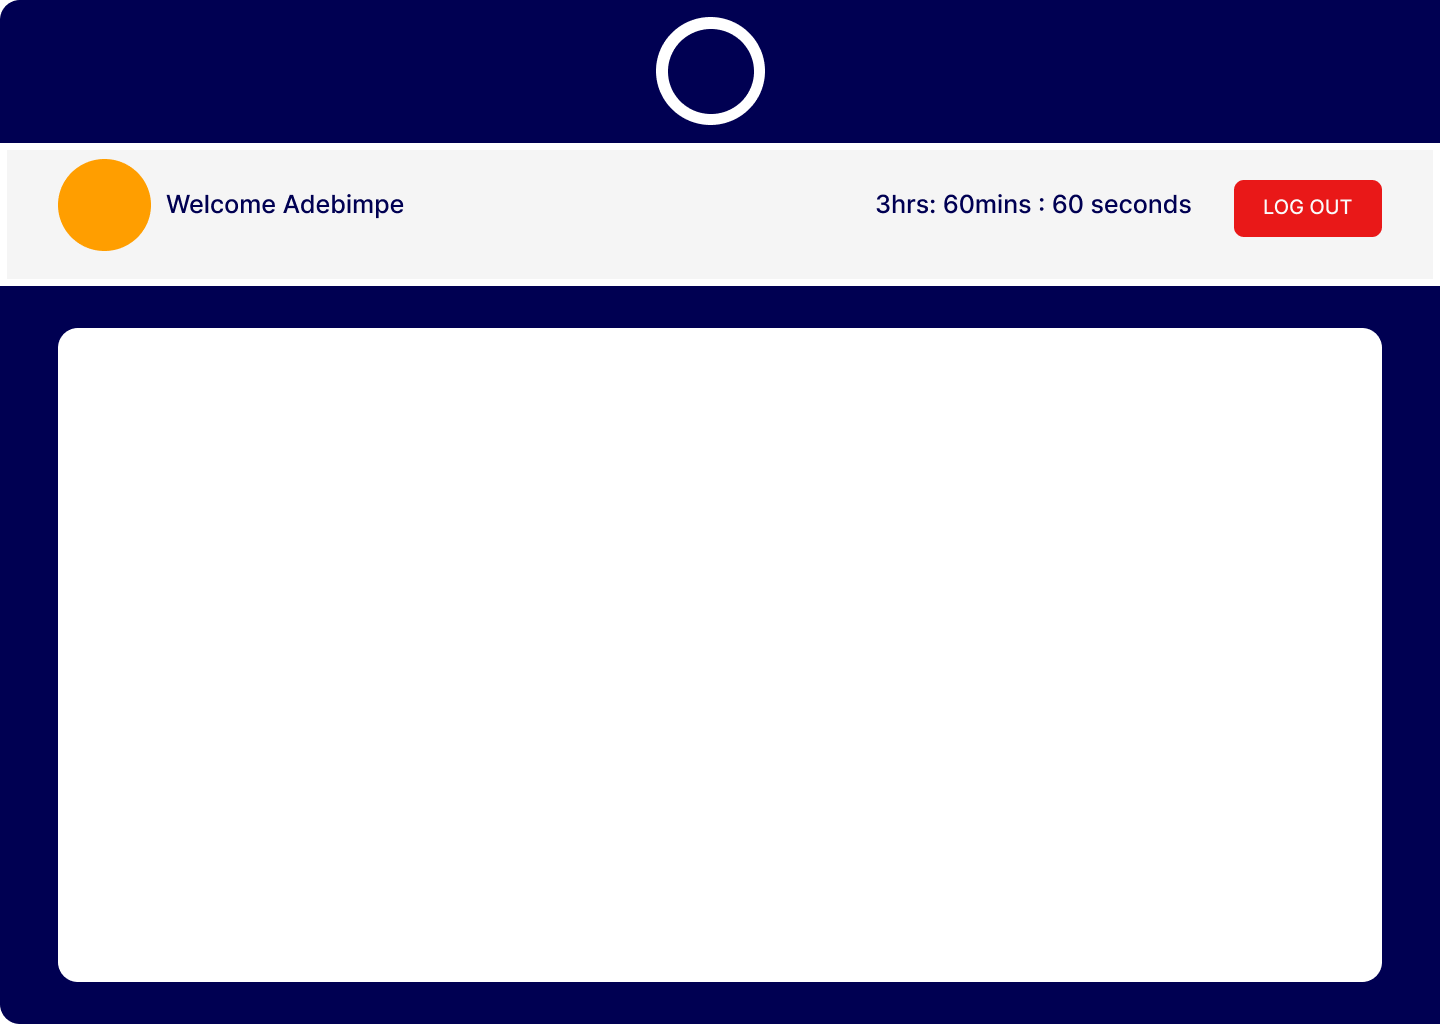
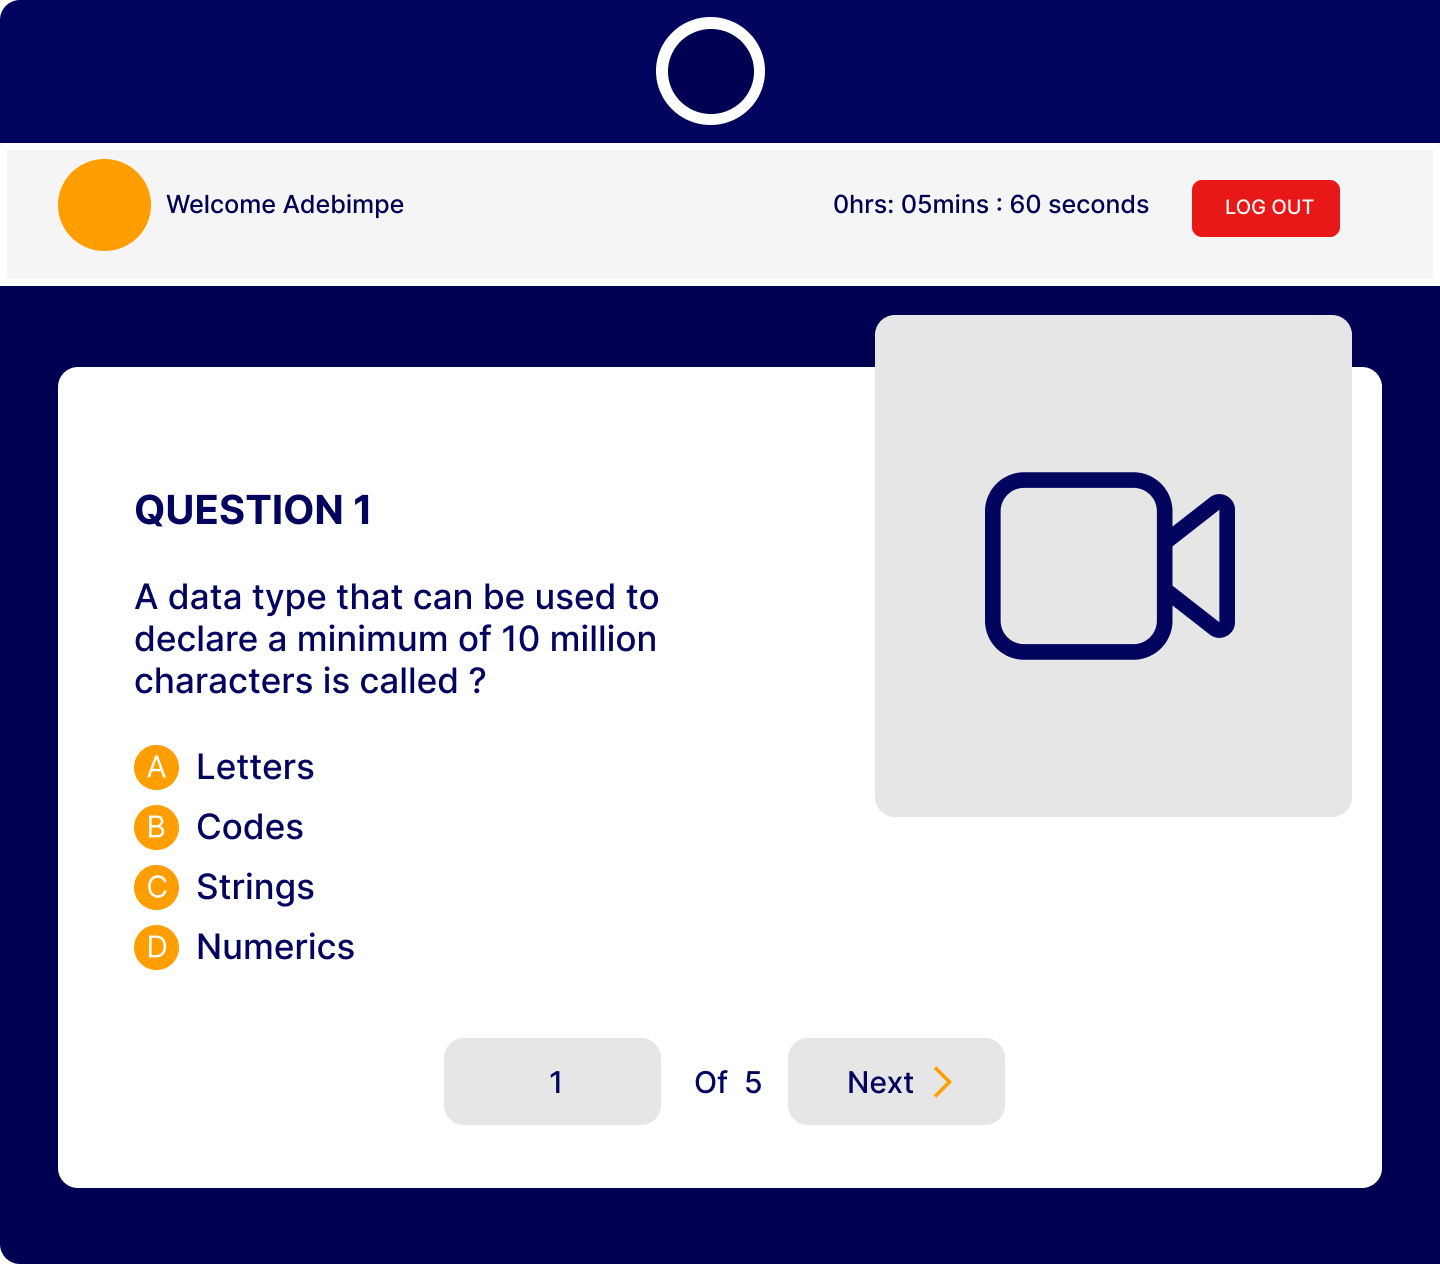
exam page

diff --git a/src/components/Exam.js b/src/components/Exam.js
@@ -1,0 +1,66 @@
+import React from 'react'
+import image from '../images/Ellipse 1.png'
+import { Link } from 'react-router-dom'
+import videocam from '../images/fluent_video-48-regular.png'
+import './Exam.css';
+
+const Exam = () => {
+  return (
+    <div className='exam-container'>
+
+      <section className='exam-header'>
+
+        <div className='header-left'>
+
+          <img src={image} alt='' />
+          <p>welcome Adebimpr</p>
+
+        </div>
+
+        <div className='header-right'>
+
+          <p>0hrs: 05mins: 60seconds</p>
+          <Link to='/logout'>Logout</Link>
+
+        </div>
+
+      </section>
+
+      <section className='exam-body'>
+
+        <div className='body-left'>
+
+          <h2>question 1</h2>
+          <p>A data type that can be used to declare a minimum of 10 million characters is called ?</p>
+          
+          <div>
+            <input type='radio' value='letters' />
+            <label for='letters'>Letters</label>
+          </div>
+          
+          <div>
+            <input type='radio' value='Codes' />
+            <label for='Codes'>Codes</label>
+          </div>
+          
+          <div>
+            <input type='radio' value='Strings' />
+            <label for='Strings'>Strings</label>
+          </div>
+          
+          <div>
+            <input type='radio' value='Numerics' />
+            <label for='Numerics'>Numerics</label>
+          </div>
+
+        </div>
+
+        <img src={videocam} alt='' />
+
+      </section>
+
+    </div>
+  )
+}
+
+export {Exam}

diff --git a/src/App.js b/src/App.js
@@ -7,6 +7,7 @@ import { Register } from './components/Signup';
 import { Upload } from './components/Upload';
 import { Verify } from './components/Verify';
 import { Home } from './components/Home';
+import { Exam } from './components/Exam';
 
 function App() {
   return (
@@ -19,6 +20,7 @@ function App() {
         <Route path='/identification' element={<Identity />} />
         <Route path='/upload' element={<Upload />} />
         <Route path='/verify' element={<Verify />} />
+        <Route path='/exam' element={<Exam />} />
       </Routes>
     </>
   );

diff --git a/src/components/Exam.css b/src/components/Exam.css
@@ -1,0 +1,27 @@
+.exam-container{
+    background-color: #03045e;
+    display: flex;
+    flex-direction: column;
+}
+
+.exam-header{
+    background-color: #fff;
+    color: #03045e;
+    display: flex;
+    justify-content: space-between;
+    align-items: center;
+}
+
+.header-left{
+    display: flex;
+    justify-content: space-between;
+    align-items: center;
+    width: 20%;
+}
+
+.header-right{
+    display: flex;
+    justify-content: space-between;
+    align-items: center;
+    width: 30%;
+}

diff --git a/src/components/Navbar.js b/src/components/Navbar.js
@@ -11,7 +11,7 @@ const Navbar = () => {
         <nav>
 
             <Link to='/' className='link'>Home</Link>
-            <Link to='/' className='link'>Why SD Proctor</Link>
+            <Link to='/exam' className='link'>Why SD Proctor</Link>
             <Link to='/' className='link'>About</Link>
             <Link to='/register' className='link'>Register</Link>
             <Link to='/' className='link' id='contact'>Contact</Link>
